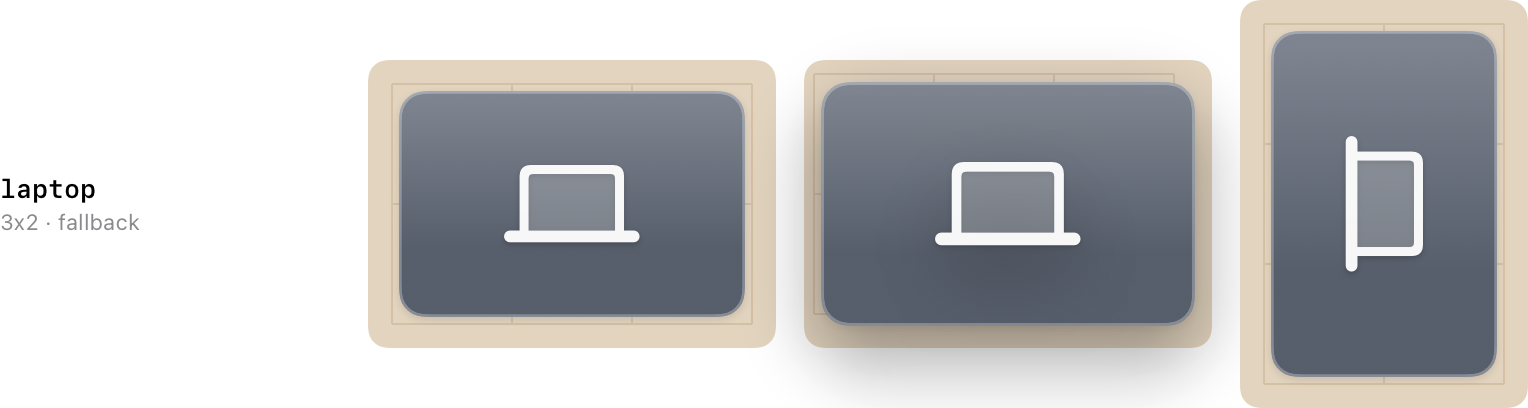
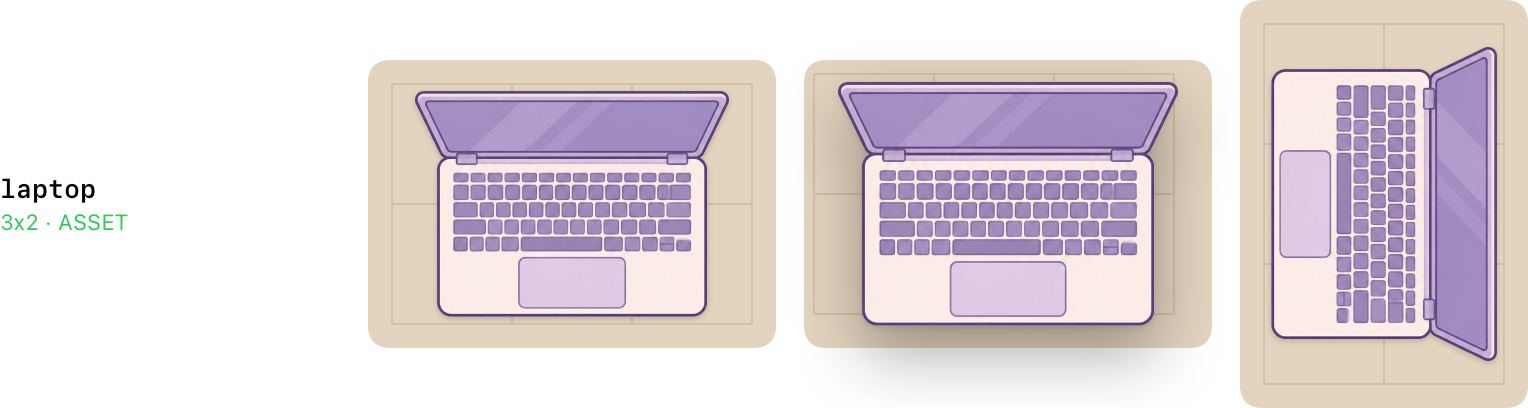
Mac build/test + screenshots (5e1f64b)

diff --git a/PROJECT_NOTES.md b/PROJECT_NOTES.md
@@ -1,6 +1,6 @@
 # Tidy Desk: Tech & Setup — Ghi chú dự án
 
-> Cập nhật: 2026-11-12 · Trạng thái: build OK + 89/90 test pass, 1 skip (ArtPreviewTests, đúng thiết kế) trên Mac ở commit `549c465` (Baby Corner MVP). `tools/check_levels.py`: 8/8 OK · `tools/check_assets.py`: 8/27 hình thiết bị (4 OK, 4 WARN tỉ lệ; còn lại dùng SF Symbol dự phòng). TestFlight gần nhất: build 5 (`549c465`). Ảnh: `screenshots/`.
+> Cập nhật: 2026-11-13 · Trạng thái: build OK + 107/108 test pass, 1 skip (ArtPreviewTests, đúng thiết kế) trên Mac ở commit `5e1f64b` (38 màn / 4 chương, Baby Corner giai đoạn A). `tools/check_levels.py`: 38/38 OK · `tools/check_assets.py`: 41/41 hình (16 WARN tỉ lệ). Ảnh: `screenshots/`.
 
 ## 1. App này là gì
 Game giải đố "dọn dẹp" (Cozy Tidy / Organization Puzzle) cho iOS 17+, chủ đề **bàn làm việc / góc setup công nghệ**. Mỗi màn bắt đầu với một bàn bừa bộn: vài món đã nằm sẵn sai chỗ trên bàn, các món còn lại ở **ngăn kéo phụ kiện** (Accessory Drawer) phía dưới. Người chơi kéo thả để mọi thứ vừa khít mặt bàn, không đè nhau, không tràn viền. Xếp đủ là qua màn ("Setup Complete!"). Giao diện tiếng Anh, nhắm thị trường toàn cầu.
@@ -46,17 +46,17 @@ Lộ trình đầy đủ theo giai đoạn: [ROADMAP.md](ROADMAP.md).
 7. Ảnh thật cho thiết bị; thay 6 file WAV tạm bằng âm thanh thu thật (cùng tên, xem README). Thêm Localizable.xcstrings.
 
 ## 5. Kết quả build/test trên Mac
-- **Ngày:** 2026-11-12 · **Commit đã build:** `549c465` (Baby Corner MVP) · **Xcode:** 26.5 (17F42), iOS Simulator 26.5, iPhone 17. Làm theo `MAC_BUILD.md`.
+- **Ngày:** 2026-11-13 · **Commit đã build:** `5e1f64b` (38 màn / 4 chương, đủ 41 hình, Baby Corner giai đoạn A, mở khóa theo chương) · **Xcode:** 26.5 (17F42), iOS Simulator 26.5, iPhone 17. Làm theo `MAC_BUILD.md`.
 - **Build app:** OK ngay lần đầu, không lỗi, không warning trong code dự án hay asset catalog. **Không phải sửa file nào.**
-- **Test:** 90 test: **89 pass, 0 fail, 1 skip** (`ArtPreviewTests`, chỉ chạy khi bật `TEST_RUNNER_TIDY_SNAPSHOTS=1`). `BabyCareTests` mới pass hết. Dòng log "level_7.json: duplicate levelId 1" là do `LevelManagerTests` cố tình tạo file hỏng.
-- **Dữ liệu:** `check_levels.py` 8/8 OK. `check_assets.py`: 8/27 hình (4 OK, 4 WARN tỉ lệ, không đổi so với `fb81c85`).
-- **Ảnh từng hình (`screenshots/art/`):** không đổi so với lần trước.
-- **Ảnh app (`screenshots/app/`):** `menu_light`, `level1_light`, `level2_light`, `level5_light`, `level5_dark`, `nursery_light`, `nursery_dark` (mới). Nhận xét:
-  - Baby Corner: cờ `-openNursery YES -babyName Bean` chạy đúng, bỏ qua bảng đặt tên. Hiện tên "Bean", giai đoạn Newborn, thanh lớn, 20 xu khởi đầu, bé vẽ bằng code (ngủ, quấn khăn) rõ và dễ thương, thanh Tummy / Joy, 3 nút Feed / Play / Dress, hàng đồ ăn (Milk 4 xu; Porridge / Banana / Cookie khóa theo giai đoạn).
-  - Hàng đồ ăn là cuộn ngang nên thẻ Cookie bị cắt ở mép phải (đúng thiết kế, nhưng có thể thêm khoảng đệm phải để người chơi thấy là cuộn được).
-  - Chế độ tối: khung cảnh bé vẫn nền pastel sáng, khá chói giữa giao diện tối; có thể làm tối nhẹ khung này.
-  - Menu: simulator có tiến độ cũ nên menu tự cuộn tới màn 3; banner Baby Corner ở đầu danh sách bị cuộn khuất, chưa xem được trong ảnh.
-  - Các màn chơi: giống lần trước, không có gì vỡ.
+- **Test:** 108 test: **107 pass, 0 fail, 1 skip** (`ArtPreviewTests`, chỉ chạy khi bật `TEST_RUNNER_TIDY_SNAPSHOTS=1`). Dòng log "level_7.json: duplicate levelId 1" là do `LevelManagerTests` cố tình tạo file hỏng.
+- **Dữ liệu:** `check_levels.py` **38/38 OK**. `check_assets.py`: **41/41** hình thiết bị/vườn. WARN tỉ lệ (16): nặng nhất `grow_light` (~31% ô), `monitor` (~40%), `monitor_ultrawide` (~45%), `power_strip` (~63%); còn lại 66–85% (`desk_lamp_tall`, `pruning_shears`, `mouse_wireless`, `notebook`, `watering_can`, `mouse_on_mat`, `keyboard_fullsize`, `flower_box`, `seed_packet`, `cable_bundle`, `coffee_mug`, `laptop_gaming`).
+- **Ảnh từng hình (`screenshots/art/`, ~13 MB):** 41 file + 2 tấm tổng hợp, mọi món là `ASSET`. Hình Gemini rõ, cùng tông pastel với hình cũ, không thấy viền nền sót sau khi cắt.
+- **Ảnh app (`screenshots/app/`):** `menu_light`, `level1_light`, `level5_light/dark`, `level29_light`, `level38_light`, `nursery_light/dark`, `babybook_light` (bỏ `level2_light` cũ vì MAC_BUILD không còn chụp). Nhận xét:
+  - Màn 5: laptop (hình thật) đẹp, khít ô 3×2; ngăn kéo toàn hình thật (webcam, tai nghe, micro, bó dây, lót chuột), đồng tông.
+  - Màn 38 "Blooming Bench" (8×6): chậu monstera, khay thảo mộc, bình tưới, găng tay, giỏ rau rõ nét. `grow_light` trong ngăn kéo chỉ là que mảnh, khó nhận ra (đúng WARN ~31%).
+  - Menu: có tiêu đề chương ("CHAPTER 1 · First Desks 2/8"). Vì simulator có tiến độ cũ, menu tự cuộn nên thẻ "Continue" nằm **dưới thanh trạng thái / Dynamic Island**, chữ giờ chồng lên chữ "Level 3" → nên thêm nền/blur cho vùng safe area trên cùng hoặc cuộn chừa khoảng trống.
+  - Phòng bé tối: "phòng đêm" tím than + trăng sao đẹp, không còn chói. 4 thanh nhu cầu, 5 nút (Feed/Play/Bath/Sleep/Dress), hàng đồ cuộn tới mép phải. Thanh test của bản beta (−/+ tháng, +100 xu, Needs ↓) hiện ở dưới, đúng ý `unlockAllBabyContent`.
+  - Sổ tay em bé: "9 of 18 pages", thẻ cột mốc dùng hình Gemini (`baby_newborn`, `baby_infant`, `baby_roller`) rất dễ thương. Bé trong phòng và ảnh nhỏ đầu sổ vẫn vẽ bằng code (chưa có hình crawler) nên khác phong cách với các trang sổ.
 
 ## 5b. TestFlight (bản thử, mượn team RETALIX USA, INC)
 - App trên App Store Connect: **Test Tidy Desk** (Apple ID 6833522226, SKU `testtidydesk`), bundle ID **`com.powervh.tidydesk.beta`**, team `62SFVG2ZD8` (tài khoản Xcode `vu.huynh@ncr.com`). Bundle ID thật `com.powervh.tidydesk` để dành cho tài khoản riêng (đừng tạo app ASC với nó trong Retalix).
@@ -72,6 +72,7 @@ xcodebuild -exportArchive -archivePath <tmp>/TidyDesk.xcarchive -exportOptionsPl
 - Icon hiện là icon tạm do `tools/generate_icon.py` vẽ (1024×1024, không alpha). Thay icon thật: ghi đè `Assets.xcassets/AppIcon.appiconset/AppIcon.png`.
 
 ## Lịch sử
+- 2026-11-13 (Build Mac `5e1f64b`): build OK không cần sửa gì, 107/108 pass + 1 skip. Chụp lại `screenshots/` theo MAC_BUILD mới (thêm `level29/38_light`, `babybook_light`).
 - 2026-11-13 (Mở khóa theo chương, **chưa build**): **cả 4 chương mở ngay từ đầu** (màn đầu của mỗi chương chơi được luôn); trong mỗi chương màn khó mở lần lượt khi qua màn trước **cùng chương** (`LevelManager.prerequisite` / `isUnlocked`). Màn không có `chapter` vẫn mở lần lượt như cũ. Test mới `testEveryChapterStartsOpenAndUnlocksInOrder`, `testShippedChaptersAreAllOpenAtTheStart`.
 - 2026-11-13 (Hình thiết bị đủ): 19 thiết bị còn lại làm bằng Gemini (5 hình nhóm, ART_PLAN ngày 3–7) + `baby_infant`, `baby_roller` → **41/41 hình cho mọi món trong 38 màn**, 3/6 hình bé. `split_sheet.py`: chỉ gộp mảnh nhỏ vào món gần nó (không gộp 2 món lớn có khung chồng nhau), xóa phần của món bên cạnh lấn vào khung cắt, tùy chọn `--gap=`. Cần vẽ lại sau: `monitor` / `monitor_ultrawide` (nhìn từ trên chỉ thấy cạnh mỏng, lấp ~40% ô), `power_strip` (dây cắm).
 - 2026-11-13 (Hình vườn + màn): 14 hình **Góc làm vườn** làm bằng Gemini theo 4 nhóm, cắt bằng công cụ mới `tools/split_sheet.py` (tự xóa nền, tìm từng món, cắt theo thứ tự đọc), nhập bằng `check_assets.py` (giờ nhận cả JPEG). Hình bé đầu tiên `baby_newborn` (Gemini). `generate_levels.py` ưu tiên món chưa dùng trong chương nên mọi món đều xuất hiện (trước đó chương Office Hours không có màn hình/laptop, chương vườn thiếu 3 món) → **sinh lại màn 9–38** (bố cục đổi, `check_levels.py` 38/38 OK). Tình trạng hình: 22 hình thiết bị/vườn + 1/6 hình bé.
